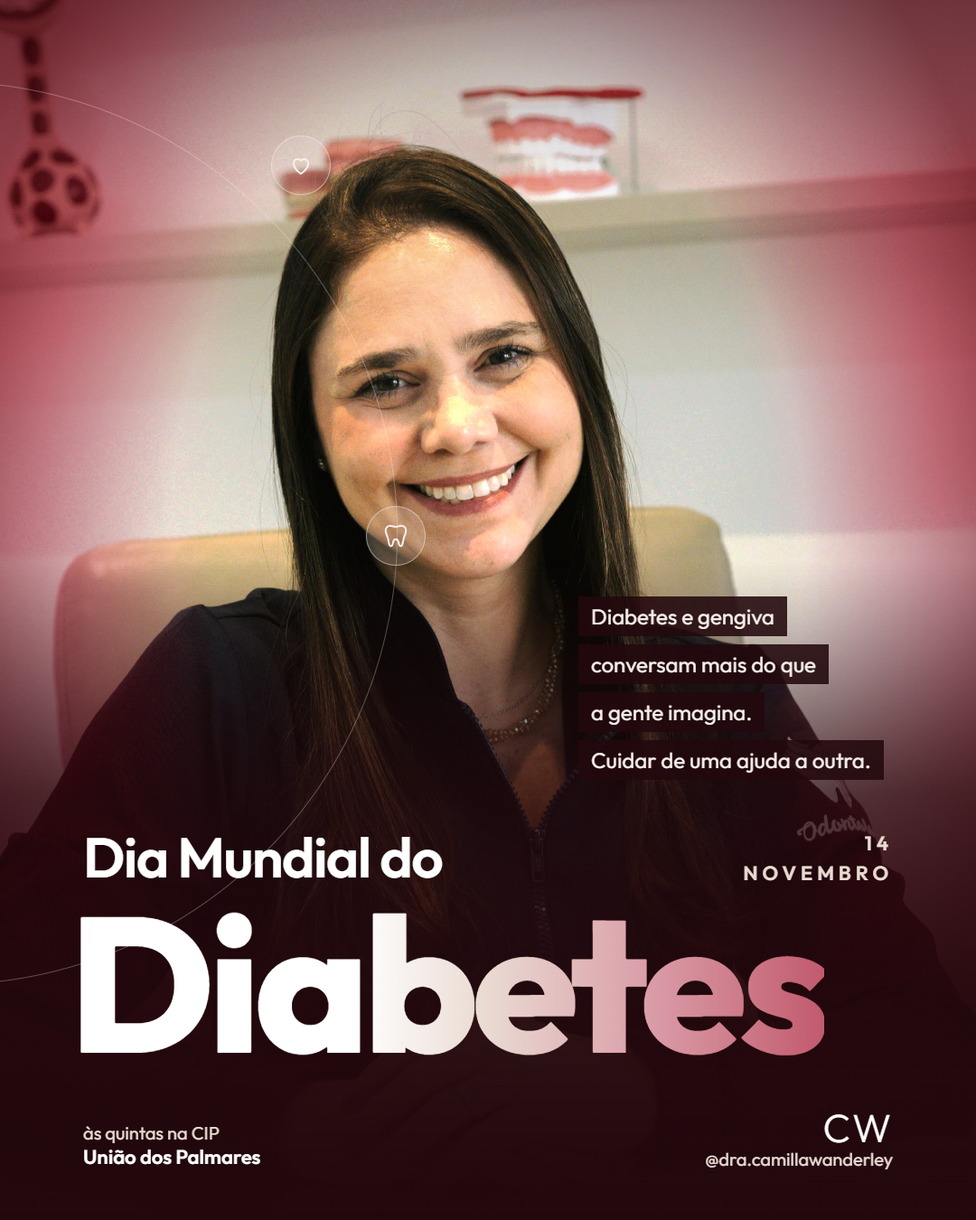
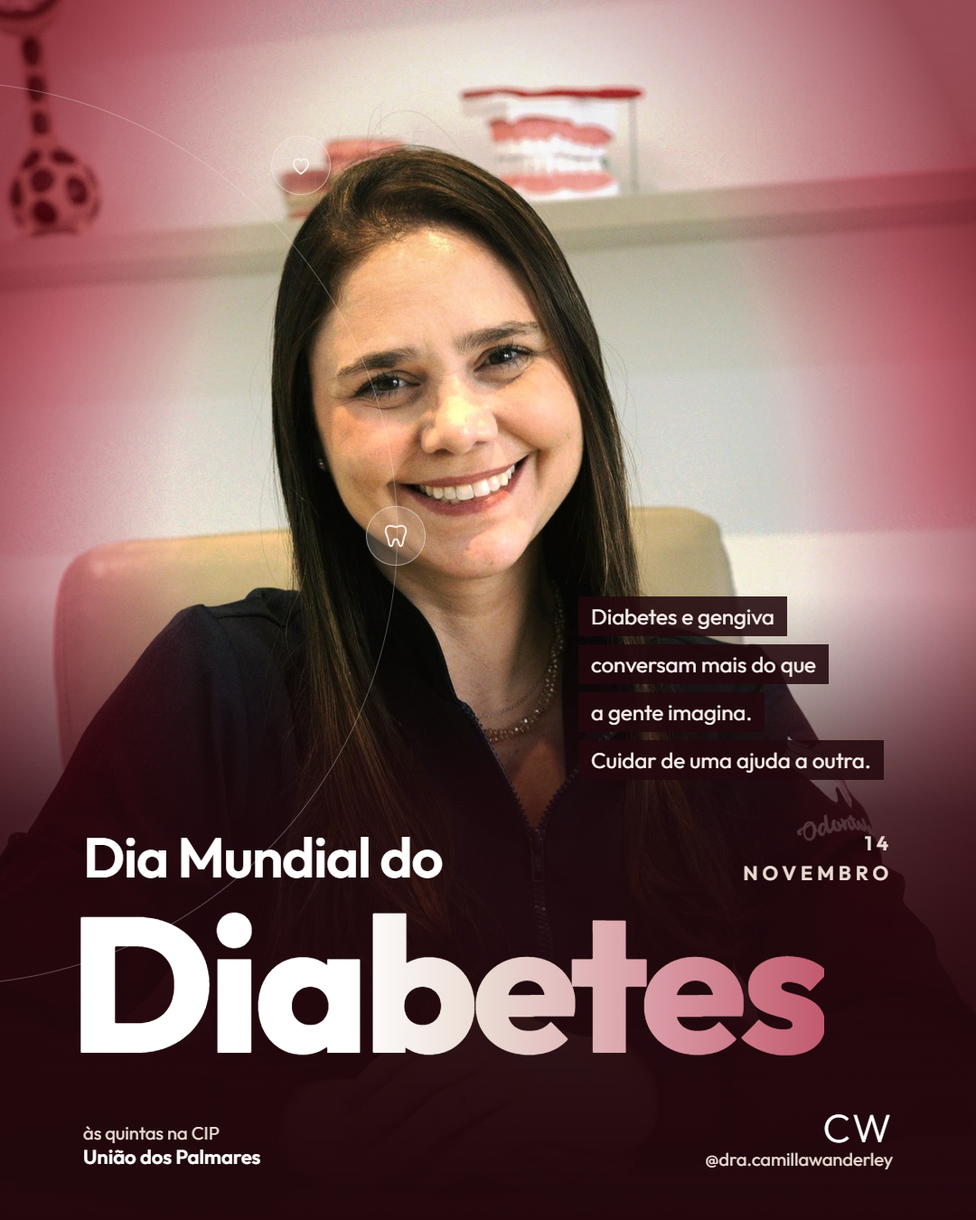
sync (dono): stories das datas nov/dez, rostos protegidos do degradê, Consciência Negra com fotos livres

Changed region(s): [[0.0, 0.0, 1.0, 0.1244], [0.4278, 0.4978, 0.5194, 0.6222]]

diff --git a/clientes/camilla-wanderley/posts/_estetica-datas/stories_datas.py b/clientes/camilla-wanderley/posts/_estetica-datas/stories_datas.py
@@ -1,0 +1,182 @@
+"""Stories (1080x1920) da estética "homenagem" pras datas de nov/dez 2026 da Dra. Camilla.
+Em cada data: story 1 com foto dela (diferente da foto do post), stories 2 e 3 tipográficos, pra nenhuma imagem se
+repetir dentro da mesma data. Texto dentro da zona segura (x 60–920, y 250–1500, `clientes/_regras.md`).
+Palavra nunca dividida em duas linhas. Uso: python stories_datas.py [slug ...]"""
+import os, sys
+from gera_datas import montar, css_veu, css_rostos, js_rostos, render, POSTS, NOITE, NUDE, CREME, ROSE, VINHO, ICONE_CORACAO, ICONE_DENTE
+
+BASE = """@import url('https://fonts.googleapis.com/css2?family=Outfit:wght@300;400;500;600;700;800&display=swap');
+*{margin:0;padding:0;box-sizing:border-box}
+html,body{width:1080px;height:1920px;overflow:hidden}
+body{font-family:'Outfit',sans-serif;position:relative;color:#fff}
+.abs{position:absolute} .nb{white-space:nowrap}
+.ic{width:70px;height:70px;border-radius:50%;background:rgba(246,239,234,.16);border:1px solid rgba(246,239,234,.45);color:#F6EFEA;display:flex;align-items:center;justify-content:center}
+.pill{left:60px;top:270px;padding:9px 22px;border:1px solid rgba(246,239,234,.6);border-radius:99px;font-size:21px;font-weight:500;letter-spacing:5px;color:#F6EFEA;background:rgba(34,8,13,.35)}
+.pre{font-size:56px;font-weight:600;letter-spacing:-1.5px;margin-left:12px;margin-bottom:-4px}
+.big{font-size:300px;font-weight:800;line-height:1;display:inline-block;align-self:flex-start;
+  background:linear-gradient(90deg,#fff 0%,#fff 38%,#EADBD3 55%,#D99AA5 78%,#c25a6e 100%);-webkit-background-clip:text;color:transparent}
+.tags{display:flex;flex-direction:column;gap:10px;align-items:flex-start}
+.tags span{background:rgba(34,8,13,.88);padding:8px 16px;font-size:30px;color:#F6EFEA}
+.rod{left:60px;width:860px;top:1420px;display:flex;justify-content:space-between;align-items:flex-end;font-size:22px;color:#EADBD3}
+.rod b{font-weight:600;color:#fff;font-size:24px}
+.cw{text-align:right;line-height:1.1} .cw b{font-size:46px;letter-spacing:2px;font-weight:300}
+.orbita{width:1100px;height:1100px;border:1.5px solid rgba(246,239,234,.28);border-radius:50%}
+"""
+RODAPE = """<div class="abs rod"><div class="nb">às quintas na CIP<br><b>União dos Palmares</b></div><div class="cw nb"><b>CW</b><br>@dra.camillawanderley</div></div>"""
+# título: cada linha cabe em 860 px (fonte até 300 px)
+AJUSTE = """<script>
+document.fonts.ready.then(()=>{
+  const linhas=[...document.querySelectorAll('.big')]; let tam=TAMMAX;
+  linhas.forEach(l=>l.style.fontSize=tam+'px');
+  while(linhas.some(l=>l.scrollWidth>860) && tam>80){ tam-=4; linhas.forEach(l=>l.style.fontSize=tam+'px'); }
+  linhas.forEach(l=>l.style.letterSpacing=(-tam*0.034)+'px');
+  POSICIONA
+});
+</script>"""
+
+
+def story_foto(s):
+    """Foto inteira dela, cor natural tratada, vinho só no ambiente; frases e título no terço de baixo."""
+    foto, rostos = montar(s["foto"], 1080, 1920, s.get("tam", "cover"), s.get("pos", "center top"), s.get("tratada", True),
+                          s["chave"])
+    cx, cy, ew, eh = s.get("elipse", (50, 32, 52, 46))
+    tags = "".join(f"<span>{f}</span>" for f in s["frases"])
+    big = "".join(f'<div class="big nb">{l}</div>' for l in s["titulo"])
+    topo = s.get("texto") == "topo"
+    if topo:  # texto no alto (rostos no meio da foto): título logo abaixo da pílula, frases embaixo do título
+        pos = """const b=document.querySelector('.bloco'); b.style.top='350px';
+  document.querySelector('.tags').style.top=(350+b.getBoundingClientRect().height+36)+'px';"""
+    else:  # bloco (pre + título) termina em y 1380; frases logo acima do bloco
+        pos = """const b=document.querySelector('.bloco'); b.style.top=(1380-b.getBoundingClientRect().height)+'px';
+  const t=document.querySelector('.tags'); t.style.top=(1380-b.getBoundingClientRect().height-t.getBoundingClientRect().height-40)+'px';
+  if(window.foge) foge(t,60);"""
+    return f"""<!doctype html><html><head><meta charset="utf-8"><style>{BASE}
+body{{background:{NOITE}}}
+.foto{{left:0;top:0;width:1080px;height:1920px;background:url('file:///{foto}') no-repeat 0 0/1080px 1920px}}
+{css_rostos(foto, rostos, 1080, 1920)}
+.tinge{{left:0;top:0;width:1080px;height:1920px;mix-blend-mode:color;
+  background:radial-gradient(ellipse {ew}% {eh}% at {cx}% {cy}%,rgba(142,39,55,0) 0%,rgba(142,39,55,0) 62%,rgba(142,39,55,.85) 100%)}}
+.vinheta{{left:0;top:0;width:1080px;height:1920px;mix-blend-mode:multiply;
+  background:radial-gradient(ellipse {ew + 10}% {eh + 4}% at {cx}% {cy}%,rgba(255,255,255,0) 0%,rgba(255,255,255,0) 58%,rgba(120,40,52,.75) 100%)}}
+.veu{{left:0;top:0;width:1080px;height:1920px;background:{css_veu(rostos, 1920, s.get('rampa', 0.10), topo)}}}
+.bloco{{left:48px;display:flex;flex-direction:column}}
+.tags{{left:60px}}
+</style></head><body>
+<div class="abs foto"></div><div class="abs tinge"></div><div class="abs vinheta"></div><div class="abs veu"></div>{'<div class="abs rostos"></div>' if rostos else ''}
+{js_rostos(rostos)}
+<div class="abs orbita" style="left:-640px;top:160px"></div>
+<div class="abs ic" style="left:{s.get('ic', (800, 420))[0]}px;top:{s.get('ic', (800, 420))[1]}px">{ICONE_CORACAO}</div>
+<div class="abs pill nb">{s['pill']}</div>
+<div class="abs tags nb" style="{s.get('tags_css', '')}">{tags}</div>
+<div class="abs bloco"><div class="pre nb">{s.get('pre', '')}</div>{big}</div>
+{RODAPE}
+{AJUSTE.replace('TAMMAX', '300').replace('POSICIONA', pos)}
+</body></html>"""
+
+
+def story_tipo(s):
+    """Sem foto: fundo noite com brilho vinho, arco e ícones; título grande no meio e frases em faixas embaixo."""
+    tags = "".join(f"<span>{f}</span>" for f in s["frases"])
+    big = "".join(f'<div class="big nb">{l}</div>' for l in s["titulo"])
+    pos = """const b=document.querySelector('.bloco'); const h=b.getBoundingClientRect().height;
+  b.style.top=(760-h/2)+'px'; document.querySelector('.tags').style.top=(760+h/2+60)+'px';"""
+    return f"""<!doctype html><html><head><meta charset="utf-8"><style>{BASE}
+body{{background:
+  radial-gradient(ellipse 70% 45% at 85% 12%,rgba(142,39,55,.75) 0%,rgba(142,39,55,0) 70%),
+  radial-gradient(ellipse 60% 40% at 0% 70%,rgba(110,28,42,.55) 0%,rgba(110,28,42,0) 70%),
+  {NOITE}}}
+.bloco{{left:48px;display:flex;flex-direction:column}}
+.tags{{left:60px}}
+.marca{{right:-40px;top:1080px;font-size:520px;font-weight:800;color:rgba(246,239,234,.045);letter-spacing:-20px;line-height:1}}
+</style></head><body>
+<div class="abs marca nb">{s.get('marca', '')}</div>
+<div class="abs orbita" style="left:-620px;top:240px"></div>
+<div class="abs ic" style="left:820px;top:330px">{ICONE_DENTE}</div>
+<div class="abs ic" style="left:{s.get('ic', (420, 1290))[0]}px;top:{s.get('ic', (420, 1290))[1]}px">{ICONE_CORACAO}</div>
+<div class="abs pill nb">{s['pill']}</div>
+<div class="abs bloco"><div class="pre nb">{s.get('pre', '')}</div>{big}</div>
+<div class="abs tags nb">{tags}</div>
+{RODAPE}
+{AJUSTE.replace('TAMMAX', str(s.get('tammax', 300))).replace('POSICIONA', pos)}
+</body></html>"""
+
+
+R = "75784_1"
+STORIES = {
+    "2026-11/02-semana-cancer-bucal": [
+        dict(tipo="foto", foto="2025-06-26_36515", tam="1080px auto", pos="0 -60px", pill="POST NOVO", pre="Novembro", titulo=["Azul"],
+             frases=["A ferida que não sara", "em 15 dias merece um olhar."]),
+        dict(tipo="tipo", pill="SINAIS DE ALERTA", pre="Fique de olho por", titulo=["15 dias"], marca="15",
+             frases=["Ferida que não cicatriza", "Mancha branca ou avermelhada", "Caroço ou endurecimento", "Prótese que machuca sempre no mesmo lugar"]),
+        dict(tipo="tipo", pill="MANDA PRA ELE", pre="Conhece um homem que", titulo=["só vai", "quando dói?"], tammax=220, marca="40+",
+             frases=["O câncer de boca é mais comum", "em homens depois dos 40.", "Manda esse post pra ele."]),
+    ],
+    "2026-11/14-dia-mundial-do-diabetes": [
+        dict(tipo="foto", foto="2025-09-29_75784_2", tam="auto 1920px", pos="-180px 0", pill="POST NOVO", pre="Dia Mundial do", titulo=["Diabetes"],
+             frases=["Diabetes e gengiva conversam", "mais do que a gente imagina."]),
+        dict(tipo="tipo", pill="MÃO DUPLA", pre="Uma puxa a", titulo=["outra"], marca="14",
+             frases=["Gengiva inflamada dificulta", "o controle da glicose.", "Glicose alta deixa", "a gengiva mais frágil."]),
+        dict(tipo="tipo", pill="SE LIGA NOS SINAIS", pre="Tem diabetes e", titulo=["sangra?"], marca="14",
+             frases=["Sangramento ao escovar,", "gengiva inchada ou mau hálito", "que não passa pedem atenção.", "Me chama no direct."]),
+    ],
+    "2026-11/17-prematuridade": [
+        dict(tipo="foto", foto="2025-09-29_75784_1", tam="auto 1920px", pos="-180px 0", pill="POST NOVO", pre="Dia Mundial da",
+             titulo=["Prematuridade"], frases=["Hoje é dia de falar", "de quem chega antes da hora."]),
+        dict(tipo="tipo", pill="NOVEMBRO ROXO", pre="Sorriso também é", titulo=["pré-natal"], marca="17",
+             frases=["A gengiva inflamada na gravidez", "é estudada como um dos fatores", "ligados ao parto prematuro."]),
+        dict(tipo="tipo", pill="GESTANTE", pre="Está", titulo=["grávida?"], marca="17",
+             frases=["Dentista também", "faz parte do pré-natal.", "Me chama no direct."]),
+    ],
+    "2026-11/20-consciencia-negra": [
+        # foto: Ministério da Cultura, CC BY 2.0 (Wikimedia Commons), 20 de novembro no Parque Memorial Quilombo dos Palmares
+        dict(tipo="foto", foto="commons-estatuas-celebracao", tratada=False, tam="cover", pos="center 0", texto="topo", rampa=0.06,
+             elipse=(55, 62, 70, 40), pill="20 DE NOVEMBRO", pre="Dia da", titulo=["Consciência", "Negra"], ic=(880, 1180),
+             frases=["Na Serra da Barriga, em União,", "o 20 de novembro é celebração."]),
+        dict(tipo="tipo", pill="SERRA DA BARRIGA", pre="Aqui em União,", titulo=["Palmares"], marca="20",
+             frases=["Por quase um século,", "o Quilombo dos Palmares", "resistiu nesta serra."]),
+        dict(tipo="tipo", pill="ZUMBI DOS PALMARES", pre="Hoje e sempre,", titulo=["respeito"], marca="20",
+             frases=["Lembrar, respeitar", "e honrar essa história."]),
+    ],
+    "2026-12/05-maceio-211-anos": [
+        dict(tipo="foto", foto="2025-09-29_75784_2", tam="auto 1920px", pos="-180px 0", pill="5 DE DEZEMBRO", pre="Parabéns,",
+             titulo=["Maceió"], frases=["211 anos da cidade", "onde eu moro."]),
+        dict(tipo="tipo", pill="ENTRE DUAS CIDADES", pre="Toda quinta,", titulo=["na estrada"], marca="211",
+             frases=["Moro em Maceió", "e toda quinta pego a estrada", "até União dos Palmares."]),
+        dict(tipo="tipo", pill="211 ANOS", pre="Obrigada por ser", titulo=["casa"], marca="211",
+             frases=["Parabéns, Maceió.", "Que venham muitos anos", "de mar, sol e sorrisos."]),
+    ],
+    "2026-12/08-dia-da-familia": [
+        dict(tipo="foto", foto="2026-08-09_83710_5", tam="auto 1920px", pos="-380px 0", elipse=(56, 30, 60, 46), pill="POST NOVO",
+             pre="Dia Nacional da", titulo=["Família"], frases=["A família que me", "ensinou a cuidar."], ic=(820, 1000)),
+        dict(tipo="tipo", pill="DIA DA FAMÍLIA", pre="Na minha casa,", titulo=["cuidar"], marca="08",
+             frases=["Cuidar de gente sempre foi", "assunto de mesa de jantar."]),
+        dict(tipo="tipo", pill="MARCA AQUI", pre="Quem cuida de", titulo=["todo mundo?"], tammax=220, marca="08",
+             frases=["Marca aquela pessoa da sua família", "que cuida de todo mundo", "e merece um carinho hoje."]),
+    ],
+    "2026-12/25-natal": [
+        dict(tipo="foto", foto="2020-12-25_07558", tam="1080px auto", pos="0 230px", elipse=(48, 30, 66, 40), pill="FELIZ NATAL",
+             pre="Feliz", titulo=["Natal"], frases=["Da minha família", "pra sua."], ic=(860, 330)),
+        dict(tipo="tipo", pill="OBRIGADA", pre="Por este", titulo=["2026"], marca="25",
+             frases=["Obrigada por cada quinta,", "cada conversa", "e cada sorriso confiado a mim."]),
+        dict(tipo="tipo", pill="BOAS FESTAS", pre="Que o seu sorriso", titulo=["brilhe"], marca="25",
+             frases=["Que o seu sorriso seja", "o mais bonito da mesa de Natal."]),
+    ],
+    "2026-12/31-reveillon": [
+        dict(tipo="foto", foto="2026-07-27_11360", tam="auto 1920px", pos="-500px 0", elipse=(50, 30, 46, 46), pill="31 DE DEZEMBRO",
+             pre="Feliz", titulo=["2027"], frases=["Que o novo ano venha leve", "e cheio de sorrisos."]),
+        dict(tipo="tipo", pill="PROMESSA DE ANO NOVO", pre="Aquele dente que ficou", titulo=["pra depois"], tammax=220, marca="27",
+             frases=["Que ele seja o primeiro", "cuidado de 2027.", "Me chama no direct."]),
+        dict(tipo="tipo", pill="ATÉ 2027", pre="Nos vemos em", titulo=["janeiro"], marca="27",
+             frases=["Obrigada por este ano.", "Feliz Ano-Novo!"]),
+    ],
+}
+
+if __name__ == "__main__":
+    so = set(sys.argv[1:])
+    for slug, lista in STORIES.items():
+        if so and slug not in so:
+            continue
+        for i, s in enumerate(lista, 1):
+            s["chave"] = f"{slug.replace('/', '_')}-story{i}"
+            html = story_foto(s) if s["tipo"] == "foto" else story_tipo(s)
+            render(html, f"{POSTS}/{slug}", f"story-{i:02d}", 1920)

diff --git a/clientes/camilla-wanderley/posts/_estetica-datas/gera_datas.py b/clientes/camilla-wanderley/posts/_estetica-datas/gera_datas.py
@@ -27,6 +27,84 @@ def tratar(nome):
     return dst
 
 
+YUNET = os.path.expandvars(r"%LOCALAPPDATA%\Programs\modelos\yunet.onnx")
+
+
+def montar(nome, W, H, tam="cover", pos="center top", tratada=True, chave=None):
+    """Enquadra a foto (já tratada) num quadro WxH, como o CSS faria, e acha os rostos (YuNet) no quadro final.
+    Devolve (caminho do quadro, lista de rostos (x, y, w, h))."""
+    from PIL import Image
+    src = tratar(nome) if tratada else f"{AQUI}/ig/{nome}.jpg"
+    img = Image.open(src).convert("RGB")
+    w, h = img.size
+    if tam == "cover":
+        s = max(W / w, H / h)
+    else:
+        a, b = tam.split()
+        s = float(a[:-2]) / w if a != "auto" else float(b[:-2]) / h
+    nw, nh = round(w * s), round(h * s)
+    px, py = pos.split()
+
+    def p(v, livre):
+        if v == "center": return livre / 2
+        if v in ("left", "top"): return 0
+        if v in ("right", "bottom"): return livre
+        return float(v.replace("px", ""))
+    quadro = Image.new("RGB", (W, H), (34, 8, 13))
+    x0, y0 = round(p(px, W - nw)), round(p(py, H - nh))
+    foto = img.resize((nw, nh), Image.LANCZOS)
+    # borda da foto que não chega na borda do quadro some suave no fundo (sem linha dura)
+    from PIL import ImageDraw
+    alfa = Image.new("L", (nw, nh), 255)
+    dr = ImageDraw.Draw(alfa)
+    f = 180
+    for i in range(f):
+        v = int(255 * i / f)
+        if y0 > 0: dr.line([(0, i), (nw, i)], fill=v)
+        if y0 + nh < H: dr.line([(0, nh - 1 - i), (nw, nh - 1 - i)], fill=v)
+    quadro.paste(foto, (x0, y0), alfa)
+    os.makedirs(f"{AQUI}/fotos/_quadros", exist_ok=True)
+    caminho = f"{AQUI}/fotos/_quadros/{chave or nome}-{W}x{H}.jpg"
+    quadro.save(caminho, quality=93)
+    bgr = cv2.imread(caminho)
+    det = cv2.FaceDetectorYN.create(YUNET, "", (W, H), 0.6)
+    _, fs = det.detect(bgr)
+    rostos = [tuple(int(v) for v in f[:4]) for f in (fs if fs is not None else [])]
+    return caminho, rostos
+
+
+def css_veu(rostos, H, rampa=0.18, topo_escuro=False):
+    """Degradê que nunca cobre rosto: o escuro de baixo só começa abaixo do rosto mais baixo; o véu do alto só existe
+    se não houver rosto perto do topo."""
+    fb = max([y + h for x, y, w, h in rostos], default=0)
+    ft = min([y for x, y, w, h in rostos], default=H)
+    ini = max(0.42 * H, fb + 30)
+    pc = lambda v: f"{min(100, v / H * 100):.1f}%"
+    alto = f"rgba(34,8,13,.35) 0%,rgba(34,8,13,0) {pc(0.16 * H)}," if ft > 0.2 * H else "rgba(34,8,13,0) 0%,"
+    if topo_escuro:  # texto no alto: escuro de cima até antes do primeiro rosto
+        fim = max(0.30 * H, ft - 40)
+        alto = f"#22080D 0%,rgba(34,8,13,.92) {pc(fim * 0.72)},rgba(34,8,13,0) {pc(fim)},"
+    return (f"linear-gradient(to bottom,{alto}rgba(34,8,13,0) {pc(ini)},rgba(34,8,13,.74) {pc(ini + rampa * H)},"
+            f"rgba(34,8,13,.95) {pc(ini + 2 * rampa * H)},#22080D 100%)")
+
+
+def css_rostos(caminho, rostos, W, H):
+    """Camada por cima de todos os degradês: a própria foto, só na região de cada rosto (máscara suave)."""
+    if not rostos:
+        return ""
+    m = ",".join(f"radial-gradient(ellipse {w * 1.0:.0f}px {h * 1.2:.0f}px at {x + w / 2:.0f}px {y + h * 0.48:.0f}px,#000 62%,transparent 100%)"
+                 for x, y, w, h in rostos)
+    return (f".rostos{{left:0;top:0;width:{W}px;height:{H}px;background:url('file:///{caminho}') no-repeat 0 0/{W}px {H}px;"
+            f"-webkit-mask-image:{m};mask-image:{m}}}")
+
+
+def js_rostos(rostos):
+    """Se as faixas de frase caírem em cima de um rosto, passam pro outro lado."""
+    return f"""<script>window.ROSTOS={[list(r) for r in rostos]};
+window.foge=(el,esq)=>{{const bate=()=>{{const r=el.getBoundingClientRect();return ROSTOS.some(([x,y,w,h])=>r.left<x+w&&r.right>x&&r.top<y+h&&r.bottom>y)}};
+ if(bate()){{el.style.left=esq+'px';}} }};</script>"""
+
+
 BASE = """@import url('https://fonts.googleapis.com/css2?family=Outfit:wght@300;400;500;600;700;800&display=swap');
 *{margin:0;padding:0;box-sizing:border-box}
 html,body{width:1080px;height:1350px;overflow:hidden}
@@ -51,6 +129,7 @@ document.fonts.ready.then(()=>{
   if(ult.right+48+dr.width<=1000){ data.style.left=(ult.right+48)+'px'; data.style.top=(ult.top+ult.height*0.42)+'px'; }
   else { const pre=document.querySelector('.pre').getBoundingClientRect(); data.style.right='92px'; data.style.left='auto'; data.style.top=(pre.top+8)+'px'; data.style.textAlign='right'; }
   const tags=document.querySelector('.tags'); tags.style.top=(bloco.top-tags.getBoundingClientRect().height-46)+'px';
+  if(window.foge) foge(tags,92);
 });
 </script>"""
 
@@ -58,17 +137,18 @@ document.fonts.ready.then(()=>{
 def homenagem(d):
     tags = "".join(f"<span>{f}</span>" for f in d["frases"])
     big = "".join(f'<div class="big nb">{l}</div>' for l in d["titulo"])
-    foto = tratar(d["foto"])
+    foto, rostos = montar(d["foto"], 1080, 1350, d.get("tam", "1080px auto"), d.get("pos", "0 -20px"), d.get("tratada", True),
+                          d["slug"].replace("/", "_"))
     cx, cy, ew, eh = d.get("elipse", (50, 44, 46, 62))
     return f"""<!doctype html><html><head><meta charset="utf-8"><style>{BASE}
 body{{background:{NOITE};color:#fff}}
-.foto{{left:0;top:0;width:1080px;height:1350px;background:url('file:///{foto}') no-repeat;background-size:{d.get('tam', '1080px auto')};background-position:{d.get('pos', '0 -20px')}}}
+.foto{{left:0;top:0;width:1080px;height:1350px;background:url('file:///{foto}') no-repeat 0 0/1080px 1350px}}
+{css_rostos(foto, rostos, 1080, 1350)}
 .tinge{{left:0;top:0;width:1080px;height:1350px;mix-blend-mode:color;
   background:radial-gradient(ellipse {ew}% {eh}% at {cx}% {cy}%,rgba(142,39,55,0) 0%,rgba(142,39,55,0) 62%,rgba(142,39,55,.85) 100%)}}
 .vinheta{{left:0;top:0;width:1080px;height:1350px;mix-blend-mode:multiply;
   background:radial-gradient(ellipse {ew + 10}% {eh + 4}% at {cx}% {cy}%,rgba(255,255,255,0) 0%,rgba(255,255,255,0) 58%,rgba(120,40,52,.75) 100%)}}
-.veu{{left:0;top:0;width:1080px;height:1350px;background:
-  linear-gradient(to bottom,rgba(34,8,13,.35) 0%,rgba(34,8,13,0) 16%,rgba(34,8,13,0) 46%,rgba(34,8,13,.72) 65%,rgba(34,8,13,.95) 83%,{NOITE} 100%)}}
+.veu{{left:0;top:0;width:1080px;height:1350px;background:{css_veu(rostos, 1350, d.get('rampa', 0.18))}}}
 .orbita{{left:-560px;top:90px;width:1000px;height:1000px;border:1.5px solid rgba(246,239,234,.30);border-radius:50%}}
 .ic{{width:66px;height:66px;border-radius:50%;background:rgba(246,239,234,.16);border:1px solid rgba(246,239,234,.45);
   color:{CREME};display:flex;align-items:center;justify-content:center}}
@@ -83,7 +163,8 @@ body{{background:{NOITE};color:#fff}}
 .rod b{{font-weight:600;color:#fff;font-size:22px}}
 .cw{{text-align:right;line-height:1.1}} .cw b{{font-size:44px;letter-spacing:2px;font-weight:300}}
 </style></head><body>
-<div class="abs foto"></div><div class="abs tinge"></div><div class="abs vinheta"></div><div class="abs veu"></div><div class="abs orbita"></div>
+<div class="abs foto"></div><div class="abs tinge"></div><div class="abs vinheta"></div><div class="abs veu"></div>{'<div class="abs rostos"></div>' if rostos else ''}<div class="abs orbita"></div>
+{js_rostos(rostos)}
 <div class="abs ic" style="left:{d.get('ic1', (300, 150))[0]}px;top:{d.get('ic1', (300, 150))[1]}px">{ICONE_CORACAO}</div>
 <div class="abs ic" style="left:{d.get('ic2', (405, 560))[0]}px;top:{d.get('ic2', (405, 560))[1]}px">{ICONE_DENTE}</div>
 <div class="abs tags nb" style="{d.get('tags_css', '')}">{tags}</div>
@@ -105,8 +186,10 @@ DATAS = [
          pre="Dia Mundial da", titulo=["Prematuridade"], dia="17", mes="NOVEMBRO", ic1=(130, 200), ic2=(70, 520),
          frases=["Meu pai passou a vida", "cuidando de quem chega ao mundo.", "Eu cuido do sorriso da mãe:",
                  "gengiva também é pré-natal."]),
-    dict(slug="2026-11/20-consciencia-negra", foto="2026-07-27_11360", tam="auto 1700px", pos="-375px 0", elipse=(50, 40, 40, 64),
-         pre="Dia Nacional de Zumbi e da", pre_tam=50, titulo=["Consciência", "Negra"], dia="20", mes="NOVEMBRO",
+    # foto: Ministério da Cultura, CC BY 2.0 (Wikimedia Commons), estátua no Parque Memorial Quilombo dos Palmares
+    dict(slug="2026-11/20-consciencia-negra", foto="commons-zumbi-estatua", tratada=False, tam="1080px auto", pos="0 -60px",
+         elipse=(42, 26, 56, 50), pre="Dia Nacional de Zumbi e da", pre_tam=50, titulo=["Consciência", "Negra"], dia="20", mes="NOVEMBRO",
+         ic1=(860, 120), ic2=(960, 420),
          frases=["Toda quinta eu chego", "à terra de Zumbi dos Palmares.", "Uma cidade que ensina", "o Brasil a resistir."]),
     dict(slug="2026-12/08-dia-da-familia", foto="2020-12-25_07558", tam="1080px auto", pos="0 0", elipse=(48, 34, 64, 66),
          pre="Dia Nacional da", titulo=["Família"], dia="08", mes="DEZEMBRO", ic1=(860, 120), ic2=(960, 420),
@@ -117,14 +200,16 @@ DATAS = [
 ]
 
 
-def render(html, pasta):
+def render(html, pasta, nome="01", altura=1350):
     os.makedirs(pasta, exist_ok=True)
-    hp = f"{pasta}/01.html"
+    hp = f"{pasta}/{nome}.html"
     open(hp, "w", encoding="utf-8").write(html)
+    if os.path.exists(f"{pasta}/{nome}.png"):  # o Chrome às vezes não sobrescreve: apaga antes
+        os.remove(f"{pasta}/{nome}.png")
     subprocess.run([CHROME, "--headless=new", f"--user-data-dir={AQUI}/.chrome", "--hide-scrollbars", "--force-device-scale-factor=1",
-                    "--window-size=1080,1350", "--virtual-time-budget=8000", f"--screenshot={pasta}/01.png", "file:///" + hp], capture_output=True)
+                    f"--window-size=1080,{altura}", "--virtual-time-budget=8000", f"--screenshot={pasta}/{nome}.png", "file:///" + hp], capture_output=True)
     os.remove(hp)
-    print(pasta)
+    print(pasta, nome)
 
 
 if __name__ == "__main__":

diff --git a/clientes/camilla-wanderley/posts/_estetica-datas/legendas.py b/clientes/camilla-wanderley/posts/_estetica-datas/legendas.py
@@ -41,7 +41,9 @@ União dos Palmares guarda a Serra da Barriga, onde o Quilombo dos Palmares resi
 
 Hoje, Dia Nacional de Zumbi e da Consciência Negra, é dia de lembrar, respeitar e honrar essa história. 🤍
 
-#consciencianegra #zumbidospalmares #serradabarriga #uniaodospalmares""",
+#consciencianegra #zumbidospalmares #serradabarriga #uniaodospalmares
+
+Foto: Ministério da Cultura, Parque Memorial Quilombo dos Palmares (CC BY 2.0, Wikimedia Commons).""",
 
     "2026-12/08-dia-da-familia": """Na minha casa, cuidar de gente sempre foi assunto de mesa.
 

diff --git a/_contexto/preferencias.md b/_contexto/preferencias.md
@@ -20,6 +20,6 @@ Resposta curta, com o próximo passo claro. Uma pergunta por vez; se ela não en
 - Regras que valem pra todos os clientes (zonas seguras do reels, stories por post, entrega no Drive, artes com foto, informação que não temos, norma de conselho): `clientes/_regras.md`. (2026-10-13)
 - **/atualizar e /syncar automáticos (2026-10-22):** ao terminar cada atividade, rodar os dois sem pedir permissão; em atividade longa, rodar também no meio. Substitui a oferta de "rodo o /atualizar?" da seção 8 do `AGENTS.md`.
 - **Fotos de post e carrossel (2026-10-24):** nada de olho fechado, piscando, borrado ou esteticamente feio; nenhuma imagem repetida dentro do mesmo carrossel (stories incluídos). Quando o vídeo não rende quadro bom, completar com o banco de fotos do cliente. Carrossel que conta a história de uma pessoa usa só fotos dela (ou do profissional), nunca outro paciente do banco (2026-10-24).
-- **Texto e foto nas artes (2026-10-24):** palavra nunca dividida em duas linhas (nada de "den/tista", nem a data); foto de pessoa sempre inteira, nunca um pedaço recortado de foto de grupo.
+- **Texto e foto nas artes (2026-10-24):** palavra nunca dividida em duas linhas (nada de "den/tista", nem a data); foto de pessoa sempre inteira, nunca um pedaço recortado de foto de grupo. Degradê (escurecimento, véu de cor) nunca passa por cima de rosto. Em data de outra causa (ex.: Consciência Negra), não destacar o rosto do cliente quando isso passa má impressão: usar foto do tema, com licença livre e crédito.
 - **Carrossel de feedback (2026-10-24):** não repetir o que a pessoa falou no depoimento. Virar um tema do perfil ligado ao feedback (ex.: medo de dentista → um pouco da história dela → fecho prático; atendimento humanizado → trauma de dentista), sempre com o banco de imagens.
 - Montagem de antes e depois (2026-10-17): recorte limpo sobre o preto, **sem degradê/esfumado nas bordas**, sobreposição seca (uma pessoa um pouco à frente da outra), rostos grandes, no mesmo tamanho e centralizados; perfis em pé. Foto cortada (nuca, ombro) não se disfarça com fade: troca a foto ou o ângulo.

diff --git a/_memoria/diario/2026-10-24.md b/_memoria/diario/2026-10-24.md
@@ -18,3 +18,5 @@
 - Estética das datas definida pelas 3 refs da Talyta (salvas em `marca/referencias/datas-comemorativas/`): "homenagem", escura (Natal) e clara (17/11 prematuridade). Amostras em `posts/_estetica-datas/`. Correções no caminho: nada de palavra dividida e nada de foto recortada de grupo; fotos novas vieram do Instagram dela (563 imagens baixadas pela API pra escolher).
 - Homenagem aprovada só na versão escura (Natal), com a doutora em cor natural tratada e o vinho só no ambiente; a versão clara foi recusada.
 - 6 posts de datas na homenagem, com legenda, em `posts/2026-11/` e `posts/2026-12/` e no Drive (POSTS/2026-11 e 2026-12): câncer bucal + Novembro Azul (01-07/11), Diabetes (14/11), Prematuridade com o pai (17/11), Consciência Negra (20/11), Dia da Família (08/12) e Natal (25/12). Fotos do Instagram dela; a única foto boa com o pai é a de 09/08/2026 no consultório.
+- 24 stories das datas (3 por data, incluindo Maceió 05/12 e Réveillon 31/12): story 1 com foto diferente da do post, 2 e 3 tipográficos. Gerador `posts/_estetica-datas/stories_datas.py`.
+- Correções da Talyta: degradê nunca sobre rosto (o gerador agora acha os rostos com YuNet, começa o escuro abaixo deles e protege a região do rosto); Consciência Negra sem a doutora em destaque, com fotos do Ministério da Cultura no Parque Memorial Quilombo dos Palmares (CC BY 2.0, Wikimedia Commons, crédito na legenda). Tudo no Drive.

diff --git a/clientes/camilla-wanderley/marca/esteticas.md b/clientes/camilla-wanderley/marca/esteticas.md
@@ -72,6 +72,9 @@ CAMILLA, `grade.py`); o vinho fica só no ambiente (bordas tingidas em modo cor,
 monocromática. **Versão clara (cards) recusada.** Gerador: `posts/_estetica-datas/gera_datas.py`, função `homenagem()`
 (lista `DATAS`: foto, título por linhas, data, frases; o título encolhe sozinho pra caber; frases sobem pra cima do título;
 nada de texto em cima de rosto, ajustar `tags_css`/`pos` por foto). Primeiro uso: 6 datas de nov/dez (2026-10-24).
+Stories: `stories_datas.py` (1080×1920, zona segura; story 1 com foto diferente da do post, 2 e 3 tipográficos).
+**Degradê nunca cobre rosto (2026-10-24):** `montar()` enquadra a foto e acha os rostos (YuNet); o escuro de baixo começa
+abaixo do último rosto, o véu de cima some se há rosto no alto, e uma camada devolve a foto natural na região de cada rosto.
 O histórico do teste segue abaixo.
 
 Referências que a Talyta amou ("só adaptar as cores"): `referencias/datas-comemorativas/ref-1-dia-do-dentista-cinema.webp`,

diff --git a/clientes/camilla-wanderley/andamento.md b/clientes/camilla-wanderley/andamento.md
@@ -33,7 +33,7 @@
   quintas 24/12 e 31/12, se o Dr. Jadson entra no post da família. (2026-10-24)
 - **Posts de datas nov/dez (2026-10-24):** 6 artes na estética homenagem, com legenda, em `posts/2026-11/` e `posts/2026-12/`
   e no Drive. Antes de publicar: confirmar as frases sobre o pai (17/11 e 08/12) e se a filha pode aparecer (08/12, foto de
-  2020); faltam os 3 stories de cada e os stories de Maceió (05/12) e Réveillon (31/12). Pedir foto recente com o pai.
+  2020). Stories prontos (3 por data, mais Maceió 05/12 e Réveillon 31/12), também no Drive. Pedir foto recente com o pai.
 - Falta foto da doutora sozinha no banco (retrato, sem paciente): pedir na próxima diária. (2026-10-24)
 - Os 19 B-rolls no Drive estão sem o color grade novo; refazer com `grade.py` se forem usados. (2026-10-23)
 - Reels "Depoimento da Mari" v4 (close da boca, pós aparelho, fotos do casamento) só existe no notebook; postar quando ligar. (2026-10-23)

diff --git a/clientes/camilla-wanderley/posts/2026-11/20-consciencia-negra/legenda.md b/clientes/camilla-wanderley/posts/2026-11/20-consciencia-negra/legenda.md
@@ -6,4 +6,6 @@ Hoje, Dia Nacional de Zumbi e da Consciência Negra, é dia de lembrar, respeita
 
 #consciencianegra #zumbidospalmares #serradabarriga #uniaodospalmares
 
+Foto: Ministério da Cultura, Parque Memorial Quilombo dos Palmares (CC BY 2.0, Wikimedia Commons).
+
 Dra. Camilla Wanderley · Clínica Geral e Endodontia · às quintas na CIP, União dos Palmares
